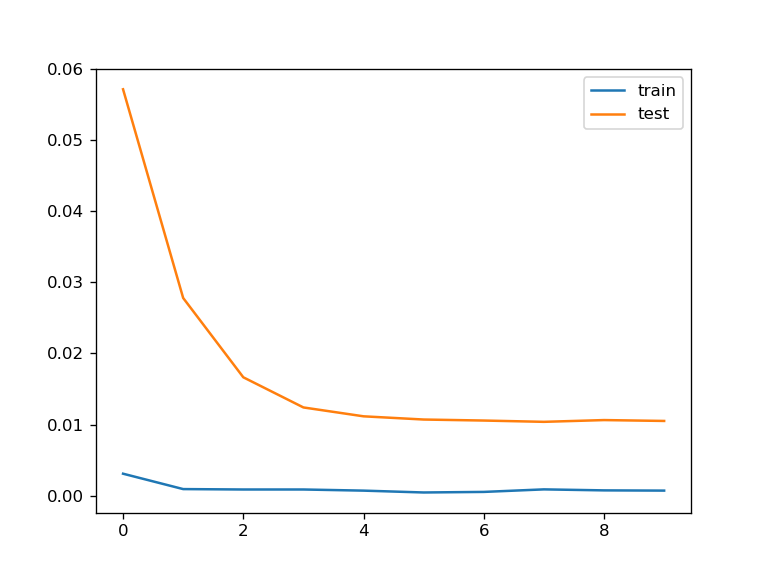
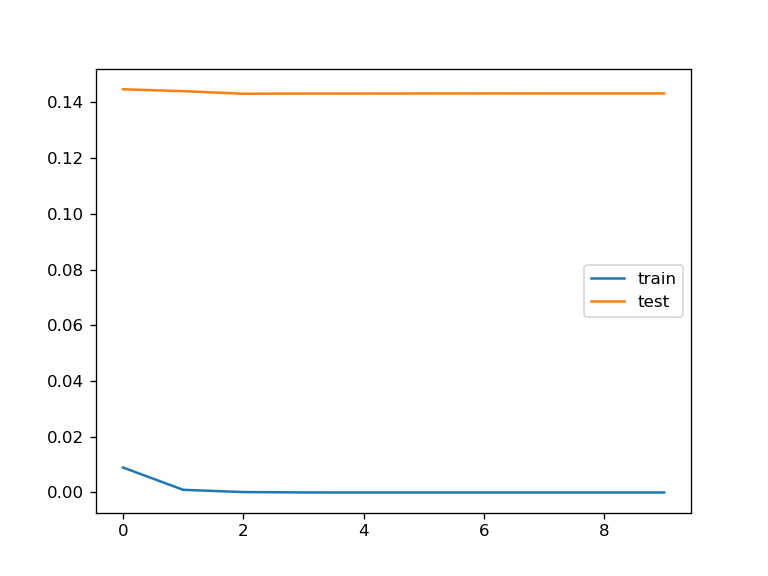
add find_best_lr

diff --git a/chapter_supervised-learning/dropout-scratch/dropout_scratch.py b/chapter_supervised-learning/dropout-scratch/dropout_scratch.py
@@ -1,0 +1,83 @@
+# coding: utf-8
+from mxnet import nd
+
+def dropout(X, drop_probability):
+    keep_probability = 1 - drop_probability
+    assert  0 <= keep_probability <= 1
+    if keep_probability == 0:
+        return X.zeros_like()
+
+    mask = nd.random_uniform(0, 1.0, X.shape, ctx=X.context) < keep_probability
+
+    scale = 1 / keep_probability
+    return mask * X * scale
+
+import sys
+sys.path.append('..')
+import utils
+batch_size = 256
+train_data, test_data = utils.load_data_fashion_mnist(batch_size)
+
+num_inputs = 28*28
+num_outputs = 10
+
+num_hidden1 = 256
+num_hidden2 = 256
+weight_scale = .01
+
+W1 = nd.random_normal(shape=(num_inputs, num_hidden1), scale=weight_scale)
+b1 = nd.zeros(num_hidden1)
+
+W2 = nd.random_normal(shape=(num_hidden1, num_hidden2), scale=weight_scale)
+b2 = nd.zeros(num_hidden2)
+
+W3 = nd.random_normal(shape=(num_hidden2, num_outputs), scale=weight_scale)
+b3 = nd.zeros(num_outputs)
+
+params = [W1, b1, W2, b2, W3, b3]
+
+for param in params:
+    param.attach_grad()
+
+drop_prob1 = 0.2
+drop_prob2 = 0.5
+
+def net(X):
+    X = X.reshape((-1, num_inputs))
+    # 第一层全连接。
+    h1 = nd.relu(nd.dot(X, W1) + b1)
+    # 在第一层全连接后添加丢弃层。
+    h1 = dropout(h1, drop_prob1) if autograd.is_training() else h1
+    # 第二层全连接。
+    h2 = nd.relu(nd.dot(h1, W2) + b2)
+    # 在第二层全连接后添加丢弃层。
+    h2 = dropout(h2, drop_prob2) if autograd.is_training() else h2
+    return nd.dot(h2, W3) + b3
+
+from mxnet import autograd
+from mxnet import gluon
+
+softmax_cross_entropy = gluon.loss.SoftmaxCrossEntropyLoss()
+
+learning_rate = .57
+
+epoch = 300
+
+for e in range(epoch):
+    train_loss = 0.
+    train_acc = 0.
+    for data, label in train_data:
+        with autograd.record():
+            output = net(data)
+            loss = softmax_cross_entropy(output, label)
+        loss.backward()
+        utils.SGD(params, learning_rate/batch_size)
+
+        train_loss += nd.mean(loss).asscalar()
+        train_acc += utils.accuracy(output, label)
+
+    test_acc = utils.evaluate_accuracy(test_data, net)
+    print("Epoch %d. Lr %f, Loss: %f, Train acc %f, Test acc %f" % (
+        e, learning_rate, train_loss/len(train_data),
+        train_acc/len(train_data), test_acc))
+    learning_rate *= (1 - float(e)/epoch)

diff --git a/chapter_supervised-learning/dropout-gluon/dropout_gluon.py b/chapter_supervised-learning/dropout-gluon/dropout_gluon.py
@@ -1,0 +1,71 @@
+# coding: utf-8
+from find_best_lr.find_best_lr import  GluonFindBestLr
+import mxnet as mx
+from mxnet.gluon import nn
+
+net = nn.Sequential()
+drop_prob1 = 0.2
+drop_prob2 = 0.5
+
+with net.name_scope():
+    net.add(nn.Flatten())
+    # 第一层全连接。
+    net.add(nn.Dense(256, activation="relu"))
+    # 在第一层全连接后添加丢弃层。
+    net.add(nn.Dropout(drop_prob1))
+    # 第二层全连接。
+    net.add(nn.Dense(256, activation="relu"))
+    # 在第二层全连接后添加丢弃层。
+    net.add(nn.Dropout(drop_prob2))
+    net.add(nn.Dense(10))
+net.initialize(ctx=mx.gpu())
+
+import sys
+sys.path.append('..')
+import utils
+from mxnet import nd
+from mxnet import autograd
+from mxnet import gluon
+
+batch_size = 256
+train_data, test_data = utils.load_data_fashion_mnist(batch_size)
+
+softmax_cross_entropy = gluon.loss.SoftmaxCrossEntropyLoss()
+trainer = gluon.Trainer(net.collect_params(),
+                        'sgd', {'learning_rate': 0.5})
+
+# must set lr to a low level
+trainer.set_learning_rate(1e-5)
+find_best_lr = GluonFindBestLr(trainer)
+
+for epoch in range(5):
+    train_loss = 0.
+    train_acc = 0.
+    for data, label in train_data:
+        data = data.as_in_context(mx.gpu())
+        label = label.as_in_context(mx.gpu())
+        with autograd.record():
+            output = net(data)
+            loss = softmax_cross_entropy(output, label)
+        loss.backward()
+        trainer.step(batch_size)
+
+        train_loss += nd.mean(loss).asscalar()
+        train_acc += utils.accuracy(output, label)
+
+        # fine best lr
+        find_best_lr.add_lr(trainer.learning_rate)
+        find_best_lr.add_loss(nd.mean(loss).asscalar())
+        find_best_lr.set_lr()
+        find_best_lr.draw_and_exit()
+
+
+        test_acc = utils.evaluate_accuracy(test_data, net, ctx=mx.gpu())
+
+        print("Epoch %d. Lr: %f, Loss: %f, Best_loss: %f, Train acc %f, Test acc %f" % (
+            epoch, trainer.learning_rate, nd.mean(loss).asscalar(), find_best_lr.best_loss,
+            train_acc/len(train_data), test_acc))
+
+    # print("Epoch %d. Loss: %f, Train acc %f, Test acc %f" % (
+    #     epoch, train_loss/len(train_data),
+    #     train_acc/len(train_data), test_acc))

diff --git a/find_best_lr/find_best_lr.py b/find_best_lr/find_best_lr.py
@@ -1,0 +1,67 @@
+# coding: utf-8
+import matplotlib
+matplotlib.use('Agg')
+import matplotlib.pyplot as plt
+
+import numpy as np
+
+class BasicFindBestLr():
+    """
+    a epoch scope:
+        find_best_lr.add_lr(...)
+        find_best_lr.add_loss(nd.mean(loss).asscalar())
+        find_best_lr.set_lr()
+        find_best_lr.draw_and_exit()
+    """
+    def __init__(self, trainer, exit_loss_factor=4, exit_lr=1.0, best_loss=1e9):
+        self.lrs = []
+        self.losses = []
+        self.exit_loss_factor = exit_loss_factor
+        self.exit_lr = exit_lr
+        self.best_loss = best_loss
+        self.trainer = trainer
+
+    def add_lr(self, lr):
+        self.lrs.append(lr)
+
+    def add_loss(self, loss):
+        self.losses.append(loss)
+        self._set_best_loss(loss)
+
+    def _set_best_loss(self, loss):
+        if self.best_loss > loss:
+            self.best_loss = loss
+
+    def set_lr(self):
+        # 继承需要重写set_lr方法
+        pass
+
+    def draw_and_exit(self):
+        if self.losses[len(self.losses)-1] > self.exit_loss_factor * self.best_loss or\
+                self.lrs[len(self.lrs)-1] > self.exit_lr:
+            plt.figure()
+            plt.xticks(np.log([1e-5, 1e-4, 1e-3, 1e-2, 1e-1, 1]), (1e-5, 1e-4, 1e-3, 1e-2, 1e-1, 1))
+            plt.xlabel('learning rate')
+            plt.ylabel('loss')
+            plt.plot(np.log(self.lrs), self.losses)
+            plt.savefig('lr_loss.png')
+            plt.show()
+            plt.figure()
+            plt.xlabel('num iterations')
+            plt.ylabel('learning rate')
+            plt.plot(self.lrs)
+            plt.savefig('numIter_lr.png')
+            exit(1)
+
+class GluonFindBestLr(BasicFindBestLr):
+    """
+    add a gluon example !!!
+    """
+    def __init__(self, trainer, factor=1.12):
+        BasicFindBestLr.__init__(self, trainer)
+        # factor should be large than 1
+        # to enable lr increase
+        self.factor = factor
+
+    def set_lr(self):
+        self.trainer.set_learning_rate(self.trainer.learning_rate * self.factor)

diff --git a/chapter_supervised-learning/reg-gluon/reg_gluon.py b/chapter_supervised-learning/reg-gluon/reg_gluon.py
@@ -66,4 +66,4 @@ def train(weight_decay):
     return ('learned w[:10]:', net[0].weight.data()[:, :10],
             'learned b:', net[0].bias.data())
 
-train(5)
+train(0)
